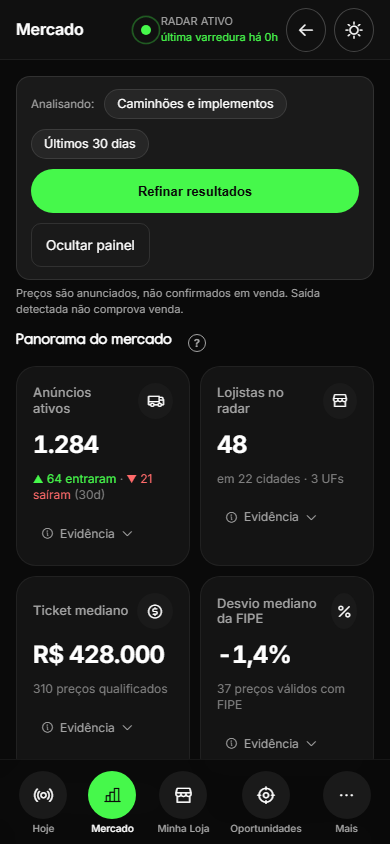
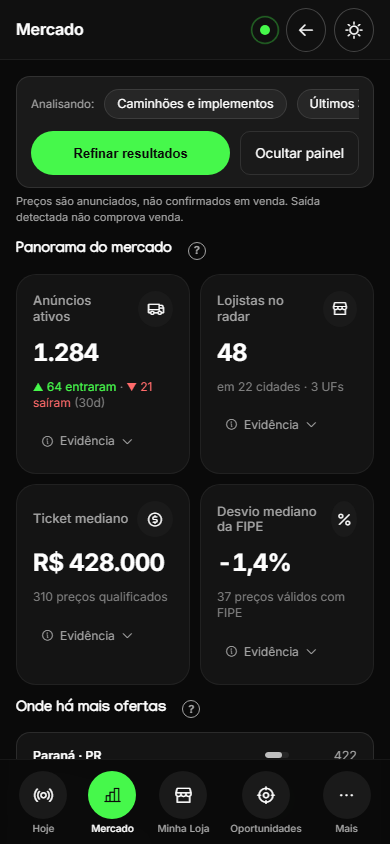
feat(mobile): status compacto na topbar e barra de contexto do mercado

diff --git a/app/src/App.jsx b/app/src/App.jsx
@@ -181,8 +181,9 @@ function RadarPulse({ ultimaColeta }) {
     ? Math.round((Date.now() - new Date(ultimaColeta)) / 3600000)
     : null;
   const ativo = horasAtras != null && horasAtras < 24;
+  const resumo = `${ativo ? 'Radar ativo' : 'Aguardando coleta'} · ${horasAtras != null ? `última varredura há ${horasAtras}h` : 'sem dados ainda'}`;
   return (
-    <div style={{ display: 'flex', alignItems: 'center', gap: 10 }}>
+    <div className="oc-radar" role="status" aria-label={resumo} title={resumo} style={{ display: 'flex', alignItems: 'center', gap: 10 }}>
       <span style={{ position: 'relative', width: 10, height: 10, flexShrink: 0 }}>
         <span style={{
           position: 'absolute', inset: 0, borderRadius: '50%',
@@ -194,7 +195,7 @@ function RadarPulse({ ultimaColeta }) {
           animation: 'radarPing 2.4s ease-out infinite',
         }} />}
       </span>
-      <div style={{ fontFamily: T.fontMono, fontSize: 11, color: T.inkMuted, lineHeight: 1.4 }}>
+      <div className="oc-radar__texto" aria-hidden="true" style={{ fontFamily: T.fontMono, fontSize: 11, color: T.inkMuted, lineHeight: 1.4 }}>
         {ativo ? 'RADAR ATIVO' : 'AGUARDANDO COLETA'}<br />
         <span style={{ color: ativo ? T.signal : T.inkMuted }}>
           {horasAtras != null ? `última varredura há ${horasAtras}h` : 'sem dados ainda'}
@@ -1037,14 +1038,18 @@ function PainelMercadoAnalitico({ contexto, onContexto, visivel, onAlternar }) {
   const maiorOferta = noEstado ? Math.max(1, ...(data.geografia?.cidades || []).map(item => item.anuncios)) : maxUf;
 
   return <section aria-label="Painel analítico do mercado" style={{ marginBottom: 28 }}>
-    <div style={{ display: 'flex', alignItems: 'center', gap: 10, flexWrap: 'wrap', background: T.surface2, border: `1px solid ${T.line}`, borderRadius: 14, padding: '12px 14px', marginBottom: 6 }}>
-      <span style={{ fontSize: 11.5, color: T.inkMuted, fontFamily: T.fontMono }}>Analisando:</span>
+    <div className="oc-contexto" style={{ background: T.surface2, border: `1px solid ${T.line}`, borderRadius: 14, padding: '12px 14px', marginBottom: 6 }}>
+      <div className="oc-contexto__chips">
+      <span style={{ fontSize: 11.5, color: T.inkMuted, fontFamily: T.fontMono, flex: 'none' }}>Analisando:</span>
       <FiltroChip aria="remover filtro de tipo" onRemover={contexto?.segmento && contexto.segmento !== 'todas' ? () => atualiza({ segmento: 'todas' }) : undefined}>{segmentoRotulo}</FiltroChip>
       {ufsAtuais.map(sigla => <FiltroChip key={sigla} aria={`remover filtro de estado ${NOMES_UF[sigla] || sigla}`} onRemover={() => alternarUf(sigla)}>{NOMES_UF[sigla] || sigla}</FiltroChip>)}
       {temCidade && <FiltroChip aria="remover filtro de cidade" onRemover={() => atualiza({ cidade: 'todas' })}>{escopo.cidade}</FiltroChip>}
       <FiltroChip aria="voltar ao período padrão" onRemover={periodo !== '30d' ? () => atualiza({ periodo: '30d' }) : undefined}>{PERIODO_ROTULOS[periodo] || periodo}</FiltroChip>
+      </div>
+      <div className="oc-contexto__acoes">
       <button type="button" onClick={() => setRefinarAberto(v => !v)} aria-expanded={refinarAberto} aria-controls="or-refinar-painel" className="or-refine-btn" style={{ fontSize: 13, fontWeight: 600, color: T.signalInk, background: T.signal, border: 'none', borderRadius: 999, padding: '8px 16px', cursor: 'pointer' }}>Refinar resultados</button>
       <button onClick={onAlternar} style={{ ...inputStyle, cursor: 'pointer', background: 'none' }}>Ocultar painel</button>
+      </div>
     </div>
 
     {refinarAberto && <Card id="or-refinar-painel" style={{ marginBottom: 14, display: 'flex', flexDirection: 'column', gap: 14 }}>
@@ -1127,7 +1132,7 @@ function PainelMercadoAnalitico({ contexto, onContexto, visivel, onAlternar }) {
                 const nome = noEstado ? item.cidade : `${NOMES_UF[item.uf] || item.uf} · ${item.uf}`;
                 const volume = Number(item.anuncios || 0);
                 return <button key={`${nome}-${index}`} onClick={() => noEstado ? atualiza({ cidade: item.cidade }) : atualiza({ uf: item.uf, cidade: 'todas' })}
-                  style={{ border: 0, cursor: 'pointer', background: 'none', color: T.ink, fontFamily: T.fontBody, textAlign: 'left', display: 'grid', gridTemplateColumns: 'minmax(140px, 220px) 1fr 56px', alignItems: 'center', gap: 12, padding: '9px 16px' }}>
+                  className="oc-oferta-linha" style={{ border: 0, cursor: 'pointer', background: 'none', color: T.ink, fontFamily: T.fontBody, textAlign: 'left', alignItems: 'center', gap: 12, padding: '9px 16px' }}>
                   <span style={{ fontSize: 12.5, fontWeight: 600, overflow: 'hidden', textOverflow: 'ellipsis', whiteSpace: 'nowrap' }}>{nome}</span>
                   <span style={{ height: 6, background: T.surface3, borderRadius: 999, overflow: 'hidden' }}><span style={{ display: 'block', height: '100%', width: `${volume / maiorOferta * 100}%`, background: volume >= maiorOferta ? T.signal : 'color-mix(in srgb, var(--text-primary) 70%, transparent)', borderRadius: 999 }} /></span>
                   <span style={{ fontFamily: T.fontMono, fontSize: 12.5, textAlign: 'right', color: T.inkMuted }}>{fmtN(volume)}</span>

diff --git a/app/src/theme.css b/app/src/theme.css
@@ -1123,3 +1123,26 @@ select option {
 /* Analise: blocos agregados em 2 x 2 (sem card orfao). */
 .oc-analise-blocos { display: grid; grid-template-columns: repeat(2, minmax(0, 1fr)); gap: 12px; }
 @media (max-width: 900px) { .oc-analise-blocos { grid-template-columns: minmax(0, 1fr); } }
+
+/* Topbar do celular: so o ponto pulsante (texto completo no aria-label/title), como no UI kit.
+   Na sidebar do desktop o texto continua visivel. */
+.oc-topbar-status .oc-radar__texto { display: none; }
+.oc-topbar-status .oc-radar { padding: 0 8px; }
+
+/* Mercado: barra "Analisando". Chips de um lado, acoes do outro; no celular os chips rolam
+   numa linha so e os dois botoes ficam lado a lado. */
+.oc-contexto { display: flex; align-items: center; gap: 10px; flex-wrap: wrap; }
+.oc-contexto__chips { display: flex; align-items: center; gap: 10px; flex-wrap: wrap; flex: 1 1 auto; min-width: 0; }
+.oc-contexto__acoes { display: flex; align-items: center; gap: 10px; flex: none; }
+@media (max-width: 560px) {
+  .oc-contexto { flex-direction: column; align-items: stretch; }
+  .oc-contexto__chips { flex-wrap: nowrap; overflow-x: auto; scrollbar-width: none; padding-bottom: 2px; }
+  .oc-contexto__chips::-webkit-scrollbar { display: none; }
+  .oc-contexto__chips > * { flex: none; }
+  .oc-contexto__acoes { display: grid; grid-template-columns: 1fr auto; }
+  .oc-contexto__acoes .or-refine-btn { width: 100%; }
+}
+
+/* Mercado: linha de "Onde ha mais ofertas". No celular o nome divide espaco com a barra. */
+.oc-oferta-linha { display: grid; grid-template-columns: minmax(140px, 220px) 1fr 56px; }
+@media (max-width: 560px) { .oc-oferta-linha { grid-template-columns: minmax(0, 1fr) 96px 44px; } }
